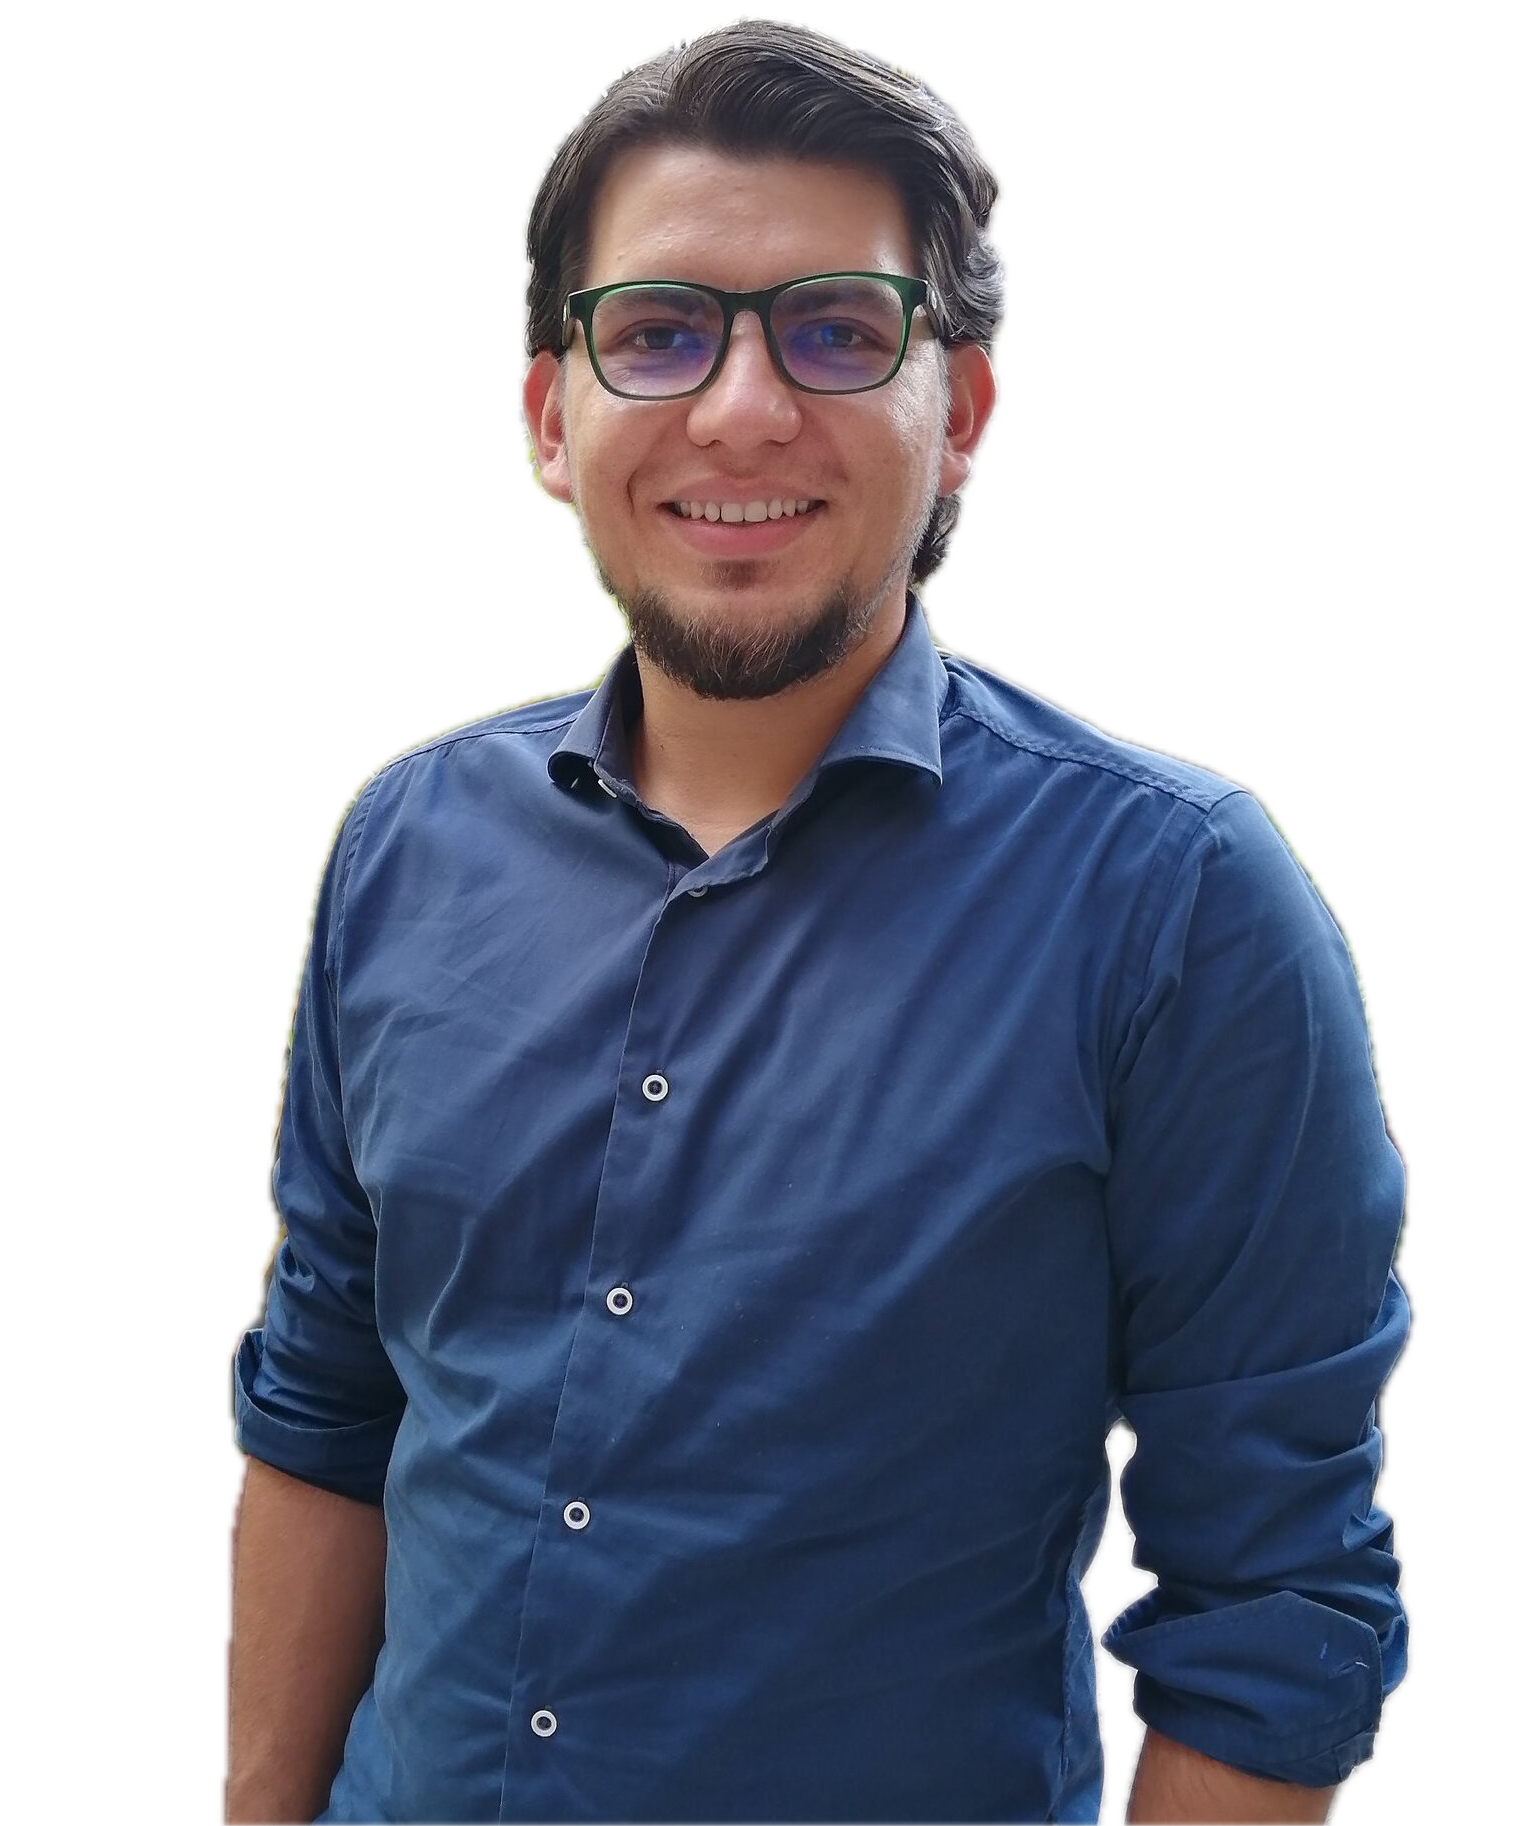
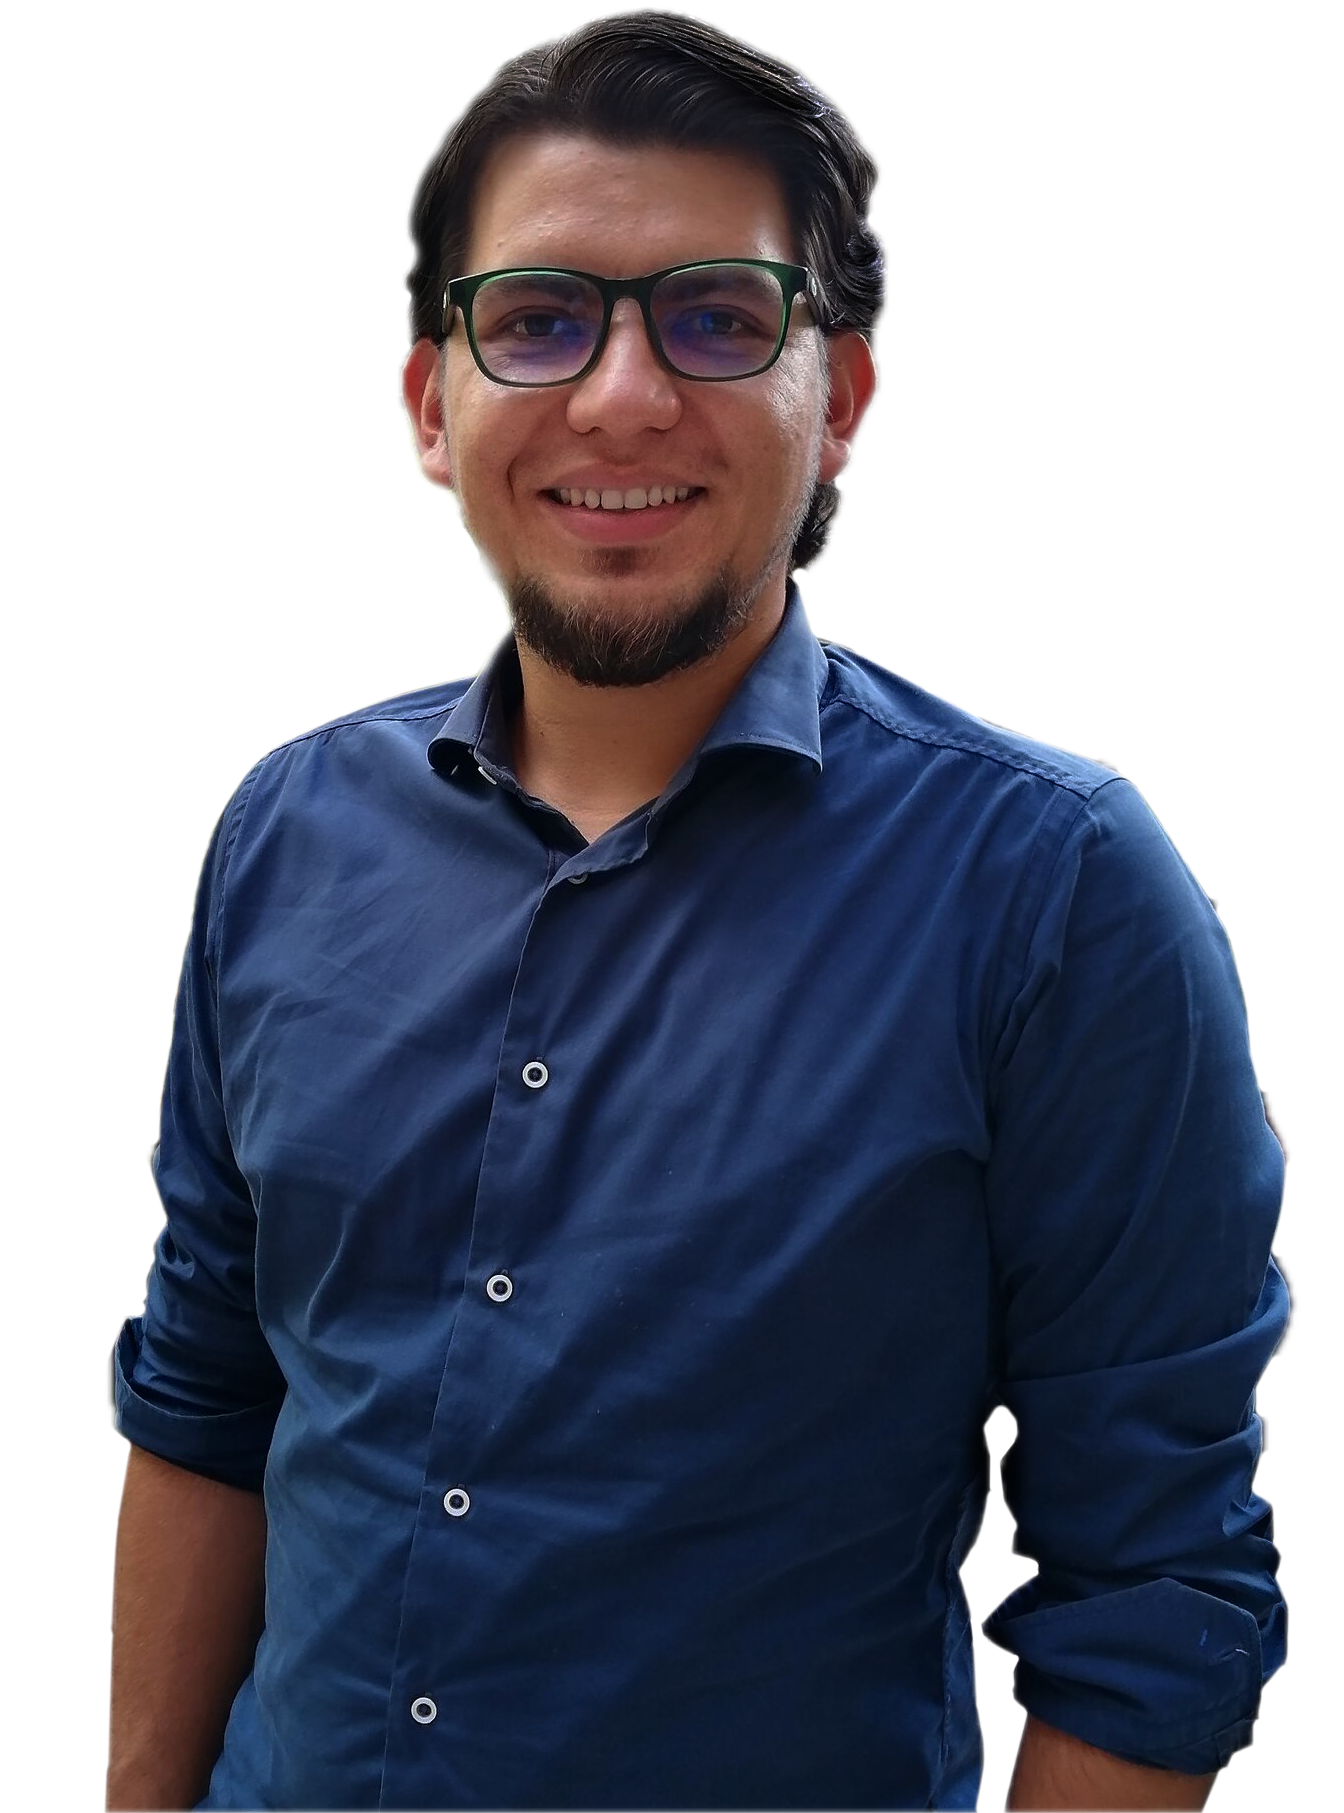
Adds the Home section for mobile

diff --git a/index.html b/index.html
@@ -1,112 +1,185 @@
 <!DOCTYPE html>
-   <html lang="en">
-   <head>
-      <meta charset="UTF-8">
-      <meta name="viewport" content="width=device-width, initial-scale=1.0">
+<html lang="en">
 
-      <!--=============== FAVICON ===============-->
-      <link rel="shortcut icon" href="assets/img/favicon.png" type="image/x-icon">
+<head>
+   <meta charset="UTF-8">
+   <meta name="viewport" content="width=device-width, initial-scale=1.0">
 
-      <!--=============== REMIXICONS ===============-->
-      <link href="https://cdn.jsdelivr.net/npm/remixicon@3.0.0/fonts/remixicon.css" rel="stylesheet">
+   <!--=============== FAVICON ===============-->
+   <link rel="shortcut icon" href="assets/img/favicon.png" type="image/x-icon">
 
-      <!--=============== CSS ===============-->
-      <link rel="stylesheet" href="assets/css/styles.css">
+   <!--=============== REMIXICONS ===============-->
+   <link href="https://cdn.jsdelivr.net/npm/remixicon@3.0.0/fonts/remixicon.css" rel="stylesheet">
 
-      <title>Tibe Calderon - Web Developer</title>
-   </head>
-   <body>
-      <!--==================== HEADER ====================-->
-      <header class="header" id="header">
-         <nav class="nav container">
-            <a href="#" class="nav__logo">
-               Tiberio <span>Calderon</span>
-            </a>
+   <!--=============== CSS ===============-->
+   <link rel="stylesheet" href="assets/css/styles.css">
 
-            <div class="nav__menu" id="nav-menu">
-               <ul class="nav__list">
-                  <li class="nav__item">
-                     <a href="#home" class="nav__link">Home</a>
-                  </li>
+   <title>Tibe Calderon - Web Developer</title>
+</head>
 
-                  <li class="nav__item">
-                     <a href="#about" class="nav__link">About</a>
-                  </li>
+<body>
+   <!--==================== HEADER ====================-->
+   <header class="header" id="header">
+      <nav class="nav container">
+         <a href="#" class="nav__logo">
+            Tiberio <span>Calderón</span>
+         </a>
 
-                  <li class="nav__item">
-                     <a href="#services" class="nav__link">Services</a>
-                  </li>
+         <div class="nav__menu" id="nav-menu">
+            <ul class="nav__list">
+               <li class="nav__item">
+                  <a href="#home" class="nav__link">Home</a>
+               </li>
 
-                  <li class="nav__item">
-                     <a href="#projects" class="nav__link">Projects</a>
-                  </li>
+               <li class="nav__item">
+                  <a href="#about" class="nav__link">About</a>
+               </li>
 
-                  <li class="nav__item">
-                     <a href="#contact" class="nav__link">Contact</a>
-                  </li>
-               </ul>
+               <li class="nav__item">
+                  <a href="#services" class="nav__link">Services</a>
+               </li>
 
-               <!-- Close Button -->
-               <div class="nav__close" id="nav-close">
-                  <i class="ri-close-line"></i>
+               <li class="nav__item">
+                  <a href="#projects" class="nav__link">Projects</a>
+               </li>
+
+               <li class="nav__item">
+                  <a href="#contact" class="nav__link">Contact</a>
+               </li>
+            </ul>
+
+            <!-- Close Button -->
+            <div class="nav__close" id="nav-close">
+               <i class="ri-close-line"></i>
+            </div>
+         </div>
+
+         <!-- Toggle Button -->
+         <div class="nav__toggle" id="nav-toggle">
+            <i class="ri-menu-line"></i>
+         </div>
+      </nav>
+   </header>
+
+   <!--==================== MAIN ====================-->
+   <main class="main">
+      <!--==================== HOME ====================-->
+      <section class="home section" id="home">
+         <div class="home__container container grid">
+            <div class="home__content">
+               <div class="home__data">
+                  <h3 class="home__subtitle">
+                     Hello, <span>I’m</span>
+                  </h3>
+
+                  <h1 class="home__title">Tiberio Calderón</h1>
+
+                  <h3 class="home__education">Font-end Developer</h3>
+
+                  <p class="home__description">
+                     With knowledge in web development and
+                     design, I offer the best projects resulting
+                     in quality work.
+                  </p>
+
+                  <a href="#contact" class="button">Let's talk</a>
+               </div>
+
+               <div class="home__social">
+                  <a href="https://github.com/tibecvp" target="_blank" class="home__social-link">
+                     <i class="ri-github-fill"></i>
+                  </a>
+
+                  <a href="https://www.linkedin.com/in/tiberiocalderonv/" target="_blank" class="home__social-link">
+                     <i class="ri-linkedin-box-fill"></i>
+                  </a>
+
+                  <a href="https://www.instagram.com/tibecvp/" target="_blank" class="home__social-link">
+                     <i class="ri-instagram-fill"></i>
+                  </a>
                </div>
             </div>
 
-            <!-- Toggle Button -->
-            <div class="nav__toggle" id="nav-toggle">
-               <i class="ri-menu-line"></i>
+            <div class="home__image">
+               <svg class="home__blob" viewBox="0 0 550 591" xmlns="http://www.w3.org/2000/svg">
+                  <mask id="maskBlob" mask-type="alpha">
+                     <path d="M263 47.1782C270.426 42.891 279.574 42.891 287 47.1782L501.157 
+                     170.822C508.583 175.109 513.157 183.032 513.157 191.606V438.894C513.157 
+                     447.468 508.583 455.391 501.157 459.678L287 583.322C279.574 587.609 270.426 
+                     587.609 263 583.322L48.843 459.678C41.4174 455.391 36.843 447.468 36.843 
+                     438.894V191.606C36.843 183.032 41.4174 175.109 48.843 170.822L263 47.1782Z"/>
+                  </mask>
+                  <g mask="url(#maskBlob)">
+                     <path d="M263 47.1782C270.426 42.891 279.574 42.891 287 47.1782L501.157 
+                     170.822C508.583 175.109 513.157 183.032 513.157 191.606V438.894C513.157 
+                     447.468 508.583 455.391 501.157 459.678L287 583.322C279.574 587.609 270.426 
+                     587.609 263 583.322L48.843 459.678C41.4174 455.391 36.843 447.468 36.843 
+                     438.894V191.606C36.843 183.032 41.4174 175.109 48.843 170.822L263 47.1782Z"/>
+               
+                     <rect x="37" width="476" height="630" fill="url(#pattern0)"/>
+                  </g>
+               
+                  <rect x="37" width="476" height="300" fill="url(#pattern1)"/>
+               
+                  <defs>
+                     <pattern id="pattern0" patternContentUnits="objectBoundingBox" width="1" height="1">
+                        <use href="#imageBlob" transform="matrix(0.00143057 0 0 0.00108108 0.0404062 0)"/>
+                     </pattern>
+               
+                     <pattern id="pattern1" patternContentUnits="objectBoundingBox" width="1" height="1">
+                        <use href="#imageBlob" transform="matrix(0.00143057 0 0 0.00226984 0.0404062 0)"/>
+                     </pattern>
+               
+                     <!-- Insert your profile (recommended size: 640 x 940) -->
+                     <image class="home__img" id="imageBlob" width="640" height="925" href="assets/img/tibe.png"/>
+                  </defs>
+               </svg>
             </div>
-         </nav>
-      </header>
+         </div>
+      </section>
 
-      <!--==================== MAIN ====================-->
-      <main class="main">
-         <!--==================== HOME ====================-->
-         <section class="home section" id="home">
-            20:54
-         </section>
+      <!--==================== ABOUT ====================-->
+      <section class="about section" id="about">
 
-         <!--==================== ABOUT ====================-->
-         <section class="about section" id="about">
-            
-         </section>
+      </section>
 
-         <!--==================== SKILLS ====================-->
-         <section class="skills section">
-            
-         </section>
+      <!--==================== SKILLS ====================-->
+      <section class="skills section">
 
-         <!--==================== SERVICES ====================-->
-         <section class="services section" id="services">
-            
-         </section>
+      </section>
 
-         <!--==================== PROJECTS ====================-->
-         <section class="projects section" id="projects">
-            
-         </section>
+      <!--==================== SERVICES ====================-->
+      <section class="services section" id="services">
 
-         <!--==================== CONTACT ====================-->
-         <section class="contact section" id="contact">
-            
-         </section>
-      </main>
+      </section>
 
-      <!--==================== FOOTER ====================-->
-      <footer class="footer">
-         
-      </footer>
+      <!--==================== PROJECTS ====================-->
+      <section class="projects section" id="projects">
 
-      <!--========== SCROLL UP ==========-->
-      
+      </section>
 
-      <!--=============== SCROLLREVEAL ===============-->
-      <script src=""></script>
+      <!--==================== CONTACT ====================-->
+      <section class="contact section" id="contact">
 
-      <!--=============== EMAIL JS ===============-->
-      
+      </section>
+   </main>
 
-      <!--=============== MAIN JS ===============-->
-      <script src="assets/js/main.js"></script>
-   </body>
+   <!--==================== FOOTER ====================-->
+   <footer class="footer">
+
+   </footer>
+
+   <!--========== SCROLL UP ==========-->
+
+
+   <!--=============== SCROLLREVEAL ===============-->
+   <script src=""></script>
+
+   <!--=============== EMAIL JS ===============-->
+
+
+   <!--=============== MAIN JS ===============-->
+   <script src="assets/js/main.js"></script>
+</body>
+
 </html>

diff --git a/assets/css/styles.css b/assets/css/styles.css
@@ -13,20 +13,20 @@
       Orange: hsl(14, 100%, 65%) - Blue: hsl(210, 100%, 70%)
       Pink: hsl(356, 100%, 75%) - Purple: hsl(250, 100%, 75%)
 
+      --hue: 162;
+      --first-color: hsl(var(--hue), 100%, 40%);
+      --first-color-alt: hsl(var(--hue), 56%, 35%);
+
       For more colors visit: https://colors.dopely.top/color-pedia
       -> Choose any color 
       -> click on tab (Color Conversion)
       -> Copy the color mode (HSL)
   */
 
-  /* --hue: 162; */
   --hue: 47;
-  /* --original-color: hsl(162 , 100% , 40%); */
   --tibe-color: hsl(47 , 100% , 61%);
-  /* --first-color: hsl(var(--hue), 100%, 40%); */
   --first-color: hsl(var(--hue), 100%, 61%);
-  /* --first-color-alt: hsl(var(--hue), 56%, 35%); */
-  --first-color-alt: hsl(var(--hue), 56%, 55%);
+  --first-color-alt: hsl(var(--hue), 100%, 72%);
   --title-color: hsl(228, 8%, 95%);
   --text-color: hsl(228, 8%, 65%);
   --body-color: hsl(228, 15%, 20%);
@@ -242,10 +242,87 @@ svg {
 
 
 /*=============== HOME ===============*/
+.home{
+  background-color: var(--container-color);
+}
 
+.home__container{
+  padding-top: 2rem;
+  row-gap: 2.5rem;
+}
+
+.home__content{
+  display: grid;
+  row-gap: 2rem;
+}
+
+.home__data{
+  text-align: center;
+}
+
+.home__subtitle,
+.home__education {
+  font-size: var(--bigger-font-size);
+}
+
+.home__subtitle span,
+.home__title{
+  color: var(--first-color);
+}
+
+.home__title{
+  font-size: var(--biggest-font-size);
+  font-weight: var(--font-semi-bold);
+}
+
+.home__description{
+  margin-block: 1rem 1.5rem;
+}
+
+.home__social{
+  display: flex;
+  justify-content: center;
+  column-gap: 1.25rem;
+}
+
+.home__social-link{
+  display: flex;
+  background-color: var(--first-color);
+  padding: .6rem .5rem;
+  color: var(--title-color);
+  font-size: 1.5rem;
+  clip-path: polygon(50% 0%, 100% 25%, 100% 75%, 50% 100%, 0% 75%, 0% 25%);
+  transition: transform .4s;
+}
+
+.home__social-link:hover{
+  transform: translateY(-.25rem);
+}
+
+.home__image{
+  justify-self: center;
+}
+
+.home__blob{
+  width: 320px;
+  fill: var(--first-color);
+  filter: drop-shadow(0 12px 12px hsla(var(--hue), 100%, 61%, .2));
+}
 
 /*=============== BUTTON ===============*/
+.button{
+  display: inline-block;
+  background-color: var(--first-color);
+  padding: 1rem 1.75rem;
+  border-radius: .5rem;
+  color: var(--title-color);
+  font-weight: var(--font-medium);
+  transition: box-shadow .4s;
+}
 
+.button:hover{
+  box-shadow: 0 8px 24px hsla(var(--hue), 100%, 61%, .25);
+}
 
 /*=============== ABOUT ===============*/
 
